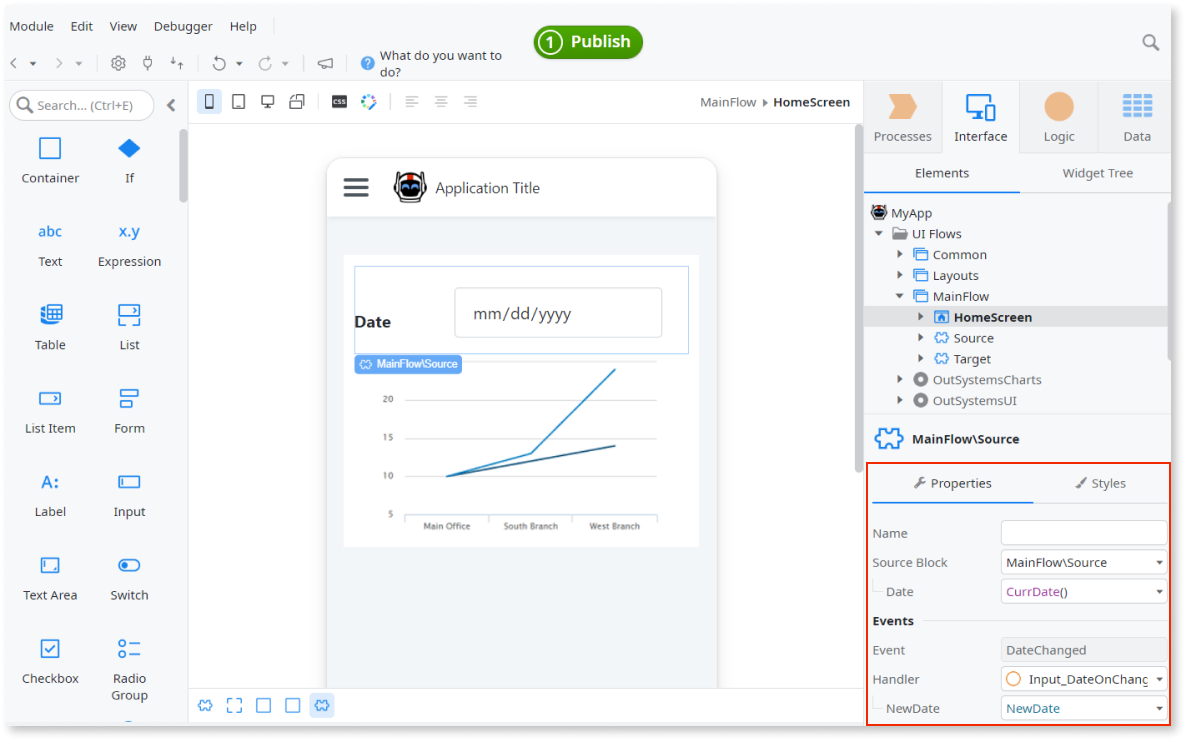
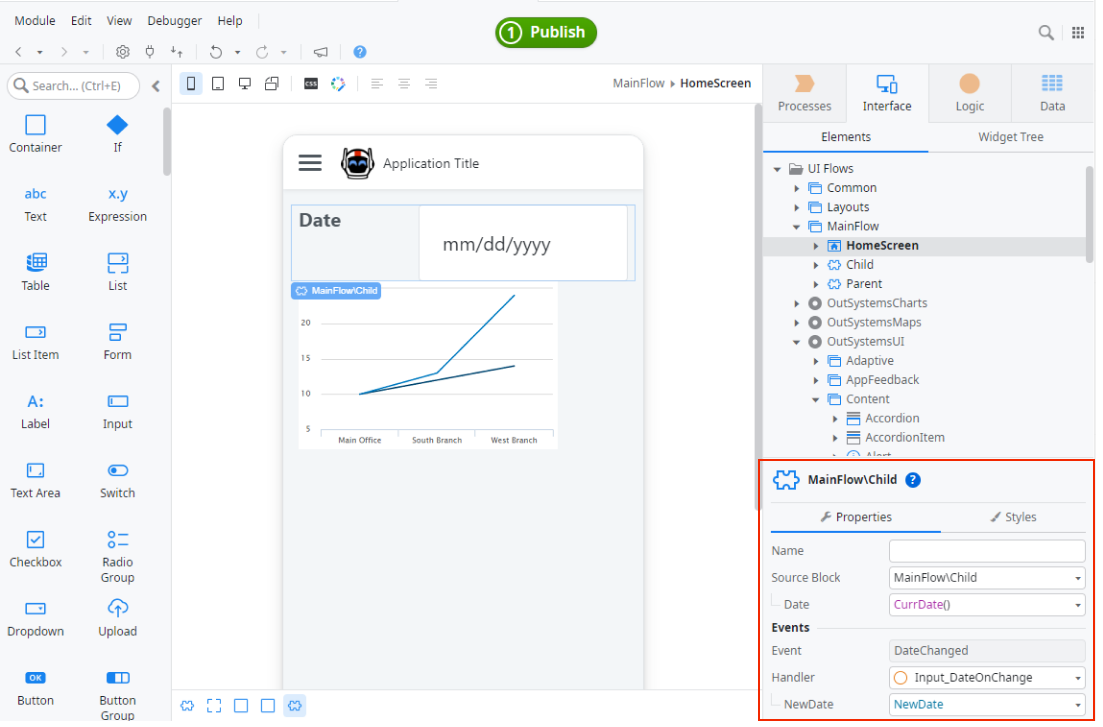
RDTKF-15484 - changes to clarify child/parent (#1950)

diff --git a/src/building-apps/ui/reuse/block-communicate.md b/src/building-apps/ui/reuse/block-communicate.md
@@ -18,57 +18,57 @@ coverage-type:
 
 # Pass Data Between Blocks
 
-In a screen or block with child blocks, it can happen that an event in a child block requires updating another block. For example, a block containing a date picker that, when changed, requires updating a chart plotted by another block. To learn more about creating reusable blocks, check [Create and Reuse Screen Blocks](block-create-reuse.md). There you can learn how can you create a reusable block. It's useful before creating an use case that will use events to pass data or communicate between blocks.
+In a parent screen or block with child blocks, it can happen that an event in a child block requires updating the parent block. For example, a block containing a date picker that, when changed, requires updating a chart plotted by another block. To learn more about creating reusable blocks, check [Create and Reuse Screen Blocks](block-create-reuse.md). There you can learn how can you create a reusable block. It's useful before creating an use case that uses events to pass data or communicate between blocks.
 
-For example, suppose there is a screen that is the parent of two blocks:
+For example, suppose you have a screen with two blocks:
 
-* The **Source** block that implements a date picker.
-* The **Target** block that plots a chart based on a date.
+* The **Child** block that implements a date picker.
+* The **Parent** block that plots a chart based on a date.
 
-When the date changes in the Source block the Target block needs to be refreshed.
+When the date changes in the Child block the Parent block needs to be refreshed.
 
-![Diagram showing communication between Source block with date picker and Target block with chart](images/block-communicate-1.png "Source and Target Block Communication")
+![Diagram showing communication between child block with date picker and parent block with chart](images/block-communicate-1.png "Source and Target Block Communication")
 
 The following is an overview of the communication between blocks:
 
-1. On the **Source** block, create and trigger an Event to notify the Parent screen or block and pass the necessary data;
-1. On the **Parent** screen or block, handle the event triggered by the Source block and update the input parameters of the Target block;
-1. Finally, in Reactive Web and Mobile apps, execute logic in the OnParametersChanged event handler on the **Target** block, if necessary. In Traditional Web apps, explicitly refresh the **Target** block.
+1. On the **Child** block, create and trigger an Event to notify the Parent screen or block and pass the necessary data;
+1. On the **Parent** screen or block, handle the event triggered by the Child block and update the input parameters of the TParent block;
+1. Finally, in Reactive Web and Mobile apps, execute logic in the OnParametersChanged event handler on the **Parent** block, if necessary. In Traditional Web apps, explicitly refresh the **Parent** block.
 
 Follow the steps below to implement this communication mechanism.
 
-On the **Source** block:
+On the **Child** block:
 
-1. Right-click the Source block on the Elements tree and add an Event. If necessary, add input parameters to the Event to pass values to the parent;
+1. Right-click the Child block on the Elements tree and add an Event. If necessary, add input parameters to the Event to pass values to the parent;
 
 1. Create an action where you trigger the Event using the Trigger Event tool. If necessary, pass the necessary data as the input parameters of the Event;
 
-    ![Screenshot of adding an event to the Source block in the Elements tree](images/block-communicate-2.png "Creating an Event in Source Block")
+    ![Screenshot of adding an event to the Child block in the Elements tree](images/block-communicate-2.png "Creating an Event in Child Block")
 
 1. Call the action to trigger the Event.
 
 On the **Parent** screen or block:
 
-1. In the interface editor, select the widget of the Source block instance.
+1. In the interface editor, select the widget of the Child block instance.
 
-1. In the Properties Pane, edit the Event and Handler properties under the Events section to add a new event handler action for the Event triggered by the Source block.
+1. In the Properties Pane, edit the Event and Handler properties under the Events section to add a new event handler action for the Event triggered by the Child block.
 
     ![Screenshot showing the editing of Event and Handler properties in the Properties Pane](images/block-communicate-3.png "Editing Event and Handler Properties")
 
-1. In the newly created action, implement the logic to set new values for the input parameters of the Target block. When this happens, the Target block is automatically updated.
+1. In the newly created action, implement the logic to set new values for the input parameters of the Parent block. When this happens, the Parent block is automatically updated.
 
-In **Reactive Web** and **Mobile** apps, if the **Target** block needs to execute logic in response to the updated input parameter values:
+In **Reactive Web** and **Mobile** apps, if the **Parent** block needs to execute logic in response to the updated input parameter values:
 
-1. In the Elements tree, select the Target block.
+1. In the Elements tree, select the Parent block.
 
 1. In the Properties Pane, edit the On Parameters Changed property under the Events section and select **(New Client Action)** to create a Client Action that runs when the values of the input parameters change.
 
 1. In the newly created Client Action, implement the logic to refresh the queries or deal with the new values of the input parameters.
 
-    ![Screenshot of creating a new Client Action for the Target block in response to parameter changes](images/block-communicate-5.png "Creating a Client Action for Target Block")
+    ![Screenshot of creating a new Client Action for the Parent block in response to parameter changes](images/block-communicate-4.png "Creating a Client Action for Parent Block")
 
-In **Traditional Web** apps, if the **Target** block needs to execute logic in response to the updated input parameter values:
+In **Traditional Web** apps, if the **Parent** block needs to execute logic in response to the updated input parameter values:
 
 1. Go to the event handler action.
 
-1. Update the **Target** block with the Ajax Refresh tool.
+1. Update the **Parent** block with the Ajax Refresh tool.
